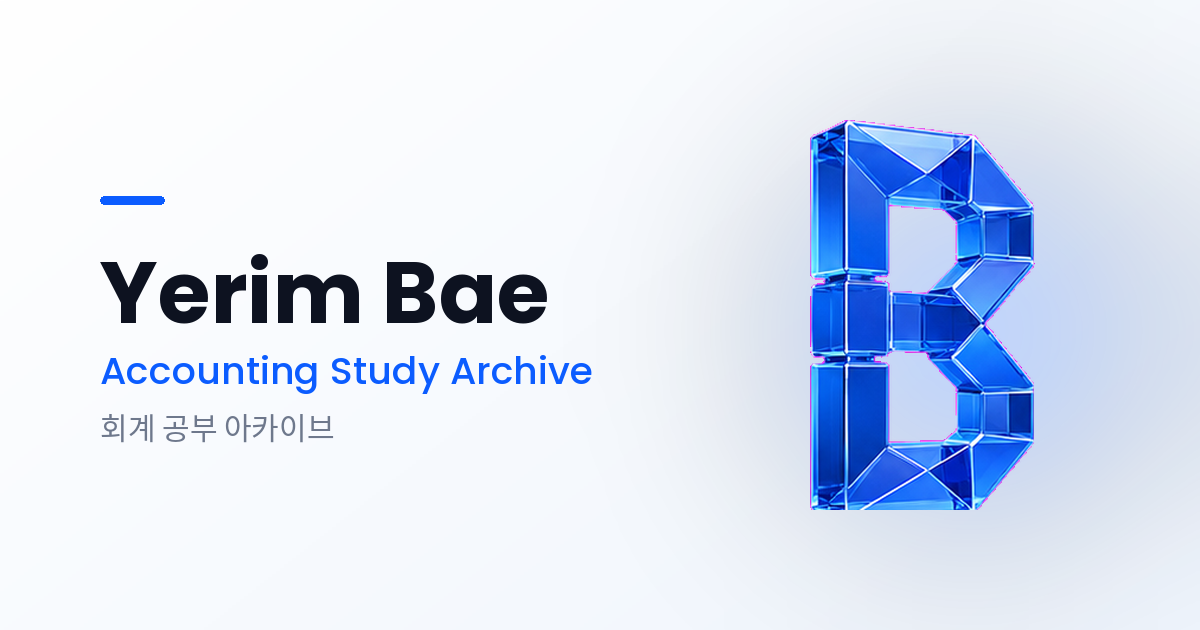
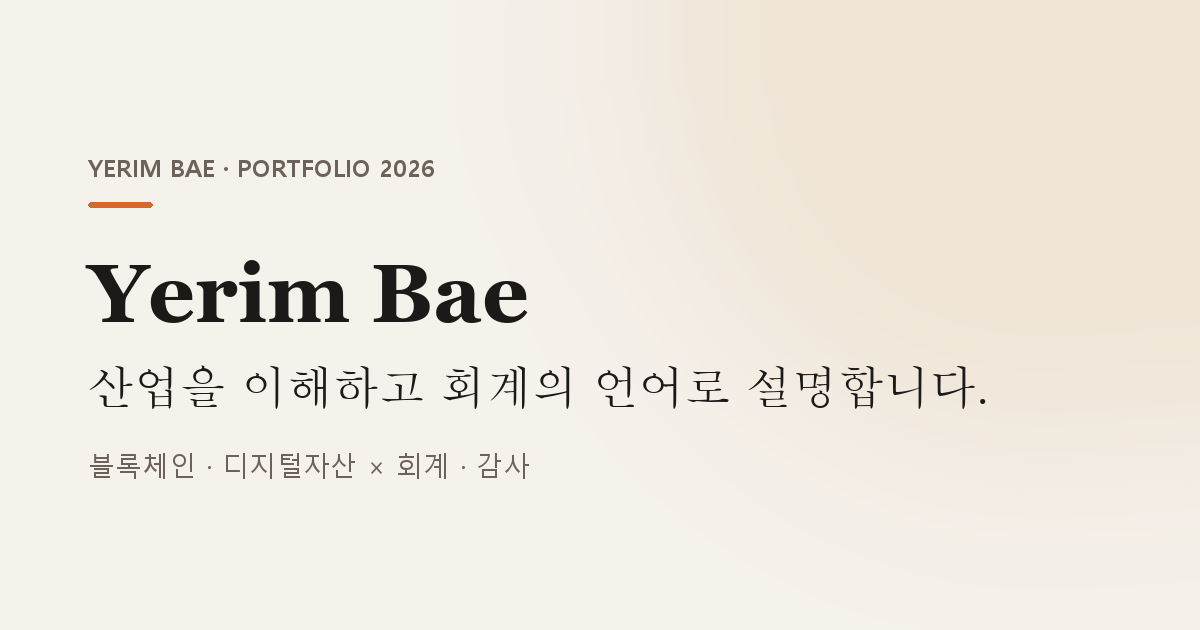
파란 크리스탈 B 전면 제거, 아이콘·링크 미리보기를 새 팔레트로 교체
아이보리·오렌지 팔레트와 정면으로 부딪히던 파란 B를 사이트에서 전부 걷어냈습니다.

- 아카이브 히어로의 크리스탈 이미지와 부유 큐브 폴백 제거 (CSS 24줄 -> 1줄).
  히어로가 글자만 남으면서 본문 폭을 600px -> 720px 로 넓혔습니다.
- 헤더 브랜드의 B 심볼과 SVG 폴백 제거. 글자 워드마크만 남겼습니다.
- 새 아이콘: 잉크색 라운드 사각형 + 아이보리 Y, 아랫줄기만 오렌지.
  assets/favicon.svg 를 새로 만들고, PNG/ICO 4종도 같은 도안으로 다시 생성했습니다.
  브라우저가 아이콘을 강하게 캐시하므로 쿼리를 ?v=5 -> ?v=6 으로 올렸습니다.
- og-image.png(카톡·SNS 미리보기)를 새로 만들었습니다. 파란 B와 옛 문구 대신
  아이보리 바탕에 "Yerim Bae / 산업을 이해하고 회계의 언어로 설명합니다."
- 더 이상 쓰지 않는 crystal.png, logo-mark.png, logo-full.png 삭제.
- README의 로고 교체 안내를 지금 구성에 맞게 다시 썼습니다.

diff --git a/archive.html b/archive.html
@@ -17,10 +17,11 @@
 <meta name="twitter:title" content="Yerim Bae · 회계 공부 아카이브" />
 <meta name="twitter:description" content="배예림이 정리한 회계 공부 기록과 인사이트 아카이브" />
 <meta name="twitter:image" content="https://yerim-accounting.vercel.app/assets/og-image.png?v=1" />
-<link rel="icon" href="favicon.ico?v=5" sizes="any" />
-<link rel="icon" type="image/png" sizes="32x32" href="assets/favicon-32.png?v=5" />
-<link rel="icon" type="image/png" sizes="512x512" href="assets/favicon-512.png?v=5" />
-<link rel="apple-touch-icon" sizes="180x180" href="assets/favicon-180.png?v=5" />
+<link rel="icon" type="image/svg+xml" href="assets/favicon.svg?v=6" />
+<link rel="icon" href="favicon.ico?v=6" sizes="any" />
+<link rel="icon" type="image/png" sizes="32x32" href="assets/favicon-32.png?v=6" />
+<link rel="icon" type="image/png" sizes="512x512" href="assets/favicon-512.png?v=6" />
+<link rel="apple-touch-icon" sizes="180x180" href="assets/favicon-180.png?v=6" />
 <link rel="preconnect" href="https://fonts.googleapis.com" />
 <link rel="preconnect" href="https://fonts.gstatic.com" crossorigin />
 <link href="https://fonts.googleapis.com/css2?family=Noto+Serif+KR:wght@400;500;600;700&display=swap" rel="stylesheet" />
@@ -51,10 +52,7 @@
   /* ---------- header ---------- */
   header{position:sticky;top:0;z-index:20;background:rgba(245,241,235,.78);backdrop-filter:blur(14px);-webkit-backdrop-filter:blur(14px);border-bottom:1px solid var(--border)}
   .nav{display:flex;align-items:center;gap:24px;height:66px}
-  .brand{display:flex;align-items:center;gap:11px;font-weight:800;letter-spacing:-.02em}
-  .brand .mark{width:34px;height:34px;flex:0 0 34px;display:grid;place-items:center}
-  .brand .mark svg{width:100%;height:100%;display:block}
-  .brand .mark img{width:100%;height:100%;object-fit:contain;display:block}
+  .brand{display:flex;align-items:center;font-weight:800;letter-spacing:-.02em}
   .brand .bt{display:block;line-height:1.15}
   .brand .bt b{font-size:15.5px;font-weight:800;color:var(--text)}
   .brand small{display:block;font-size:11px;font-weight:600;color:var(--faint);letter-spacing:.01em;margin-top:1px}
@@ -65,8 +63,6 @@
   /* 모바일: 헤더를 컴팩트하게 — 메뉴가 가로 한 줄 유지 (PC는 영향 없음) */
   @media(max-width:600px){
     .nav{gap:10px;height:58px}
-    .brand{gap:8px}
-    .brand .mark{width:28px;height:28px;flex:0 0 28px}
     .brand .bt b{font-size:14px;white-space:nowrap}
     .brand small{display:none}
     .nav .links{gap:2px}
@@ -76,7 +72,7 @@
 
   /* ---------- hero ---------- */
   .hero{position:relative;padding:56px 0 26px}
-  .hero .hcopy{position:relative;z-index:2;max-width:600px}
+  .hero .hcopy{position:relative;z-index:2;max-width:720px}
   .hero .eyebrow{display:inline-flex;align-items:center;gap:7px;font-size:12px;font-weight:800;letter-spacing:.02em;
     color:var(--accent);background:var(--accent-soft);padding:6px 12px;border-radius:999px;margin-bottom:16px}
   .hero .eyebrow .dot{width:7px;height:7px;border-radius:50%;background:var(--accent);box-shadow:0 0 0 0 rgba(216,102,47,.5);animation:pulse 2s infinite}
@@ -90,30 +86,7 @@
     border-radius:12px;padding:9px 14px;font-size:13px;color:var(--muted);box-shadow:var(--shadow)}
   .hero .meta .chip b{font-size:18px;font-weight:600;color:var(--text);letter-spacing:-.02em;font-family:var(--serif)}
 
-  /* ---------- hero crystal animation ---------- */
-  .hero-art{position:absolute;top:0;right:8px;width:340px;height:100%;z-index:1;pointer-events:none;display:grid;place-items:center}
-  .hero-art .glow{position:absolute;width:240px;height:240px;border-radius:50%;
-    background:radial-gradient(circle,rgba(46,166,255,.28) 0%,rgba(11,92,255,.10) 45%,rgba(11,92,255,0) 70%);
-    filter:blur(6px);animation:breathe 5s ease-in-out infinite}
-  @keyframes breathe{0%,100%{transform:scale(.92);opacity:.75}50%{transform:scale(1.08);opacity:1}}
-  .crystals{position:relative;width:220px;height:220px}
-  .cube{position:absolute;width:74px;height:74px;border-radius:12px;
-    background:linear-gradient(150deg,#5fbcff 0%,#1f74ff 45%,#0a3ecc 100%);
-    box-shadow:inset 0 2px 8px rgba(255,255,255,.55),inset 0 -10px 18px rgba(6,32,120,.55),0 14px 30px rgba(11,92,255,.35);
-    border:1px solid rgba(255,255,255,.35)}
-  .cube::before{content:"";position:absolute;inset:8px 8px auto 8px;height:26px;border-radius:8px;
-    background:linear-gradient(180deg,rgba(255,255,255,.6),rgba(255,255,255,0))}
-  .cube.c1{top:22px;left:26px;animation:float1 6s ease-in-out infinite}
-  .cube.c2{top:78px;left:104px;width:64px;height:64px;animation:float2 6.6s ease-in-out infinite}
-  .cube.c3{top:132px;left:34px;width:58px;height:58px;animation:float3 7.2s ease-in-out infinite}
-  @keyframes float1{0%,100%{transform:translateY(0) rotate(-3deg)}50%{transform:translateY(-14px) rotate(2deg)}}
-  @keyframes float2{0%,100%{transform:translateY(-6px) rotate(3deg)}50%{transform:translateY(10px) rotate(-2deg)}}
-  @keyframes float3{0%,100%{transform:translateY(4px) rotate(-2deg)}50%{transform:translateY(-12px) rotate(3deg)}}
-  /* 실제 크리스탈 이미지를 넣으면 아래로 자동 대체됩니다 */
-  .hero-art img.crystal-img{position:relative;width:auto;max-width:300px;max-height:210px;filter:drop-shadow(0 22px 38px rgba(11,92,255,.34));animation:floatImg 6.5s ease-in-out infinite}
-  @keyframes floatImg{0%,100%{transform:translateY(0) rotate(-1.5deg)}50%{transform:translateY(-16px) rotate(1.5deg)}}
-  @media(max-width:760px){.hero-art{display:none}.hero .hcopy{max-width:none}}
-  @media(prefers-reduced-motion:reduce){.cube,.crystals .cube,.glow,.crystal-img,.hero .eyebrow .dot{animation:none!important}}
+  @media(prefers-reduced-motion:reduce){.hero .eyebrow .dot{animation:none!important}}
 
   /* ---------- sections ---------- */
   .sec-head{display:flex;align-items:baseline;gap:12px;margin:40px 0 18px}
@@ -384,15 +357,6 @@
   <div class="wrap nav">
     <!-- 로고를 누르면 포트폴리오 첫 화면으로 돌아갑니다. 아카이브 홈은 아래 "홈" 링크입니다 -->
     <a href="index.html" class="brand">
-      <span class="mark" id="brandMark">
-        <!-- 워드마크에서 잘라낸 마크(assets/logo-mark.png)가 있으면 사용, 없으면 아래 SVG 폴백 -->
-        <img src="assets/logo-mark.png" alt="Yerim Bae" onerror="this.remove();var f=document.getElementById('brandFallback');if(f)f.style.display='block'" />
-        <svg id="brandFallback" style="display:none" viewBox="0 0 40 40" fill="none" xmlns="http://www.w3.org/2000/svg" aria-label="Yerim Bae">
-          <rect x="4" y="6" width="15" height="10" rx="2.5" fill="#1C1A19"/>
-          <rect x="4" y="19" width="10" height="15" rx="2.5" fill="#1C1A19"/>
-          <rect x="22" y="6" width="14" height="14" rx="3" fill="#1C1A19"/>
-        </svg>
-      </span>
       <span class="bt"><b>Yerim Bae</b><small>Accounting Study Archive · 회계 공부 아카이브</small></span>
     </a>
     <nav class="links">
@@ -544,11 +508,6 @@ ${tagsHtml(p.tags)}
 function heroHtml(){
   const banner = USING_SAMPLE ? `<div class="banner">⚙ 지금은 샘플 데이터로 보이는 중이에요. 노션 연결·배포가 끝나면 실제 데이터가 표시됩니다.</div>`:"";
   return `<section class="hero">
-    <div class="hero-art" aria-hidden="true">
-      <div class="glow"></div>
-      <img class="crystal-img" src="assets/crystal.png" alt="" onerror="this.remove();var c=document.getElementById('cssCrystals');if(c)c.style.display='block'" />
-      <div class="crystals" id="cssCrystals" style="display:none"><span class="cube c1"></span><span class="cube c2"></span><span class="cube c3"></span></div>
-    </div>
     <div class="hcopy">
       <h1><span class="hl">Accounting</span><br class="hbr"> Study Archive</h1>
       <div class="meta">

diff --git a/index.html b/index.html
@@ -14,9 +14,10 @@
 <meta name="twitter:card" content="summary_large_image" />
 <meta name="twitter:image" content="https://yerim-accounting.vercel.app/assets/og-image.png" />
 
-<link rel="icon" href="favicon.ico?v=5" sizes="any" />
-<link rel="icon" type="image/png" sizes="32x32" href="assets/favicon-32.png?v=5" />
-<link rel="apple-touch-icon" sizes="180x180" href="assets/favicon-180.png?v=5" />
+<link rel="icon" type="image/svg+xml" href="assets/favicon.svg?v=6" />
+<link rel="icon" href="favicon.ico?v=6" sizes="any" />
+<link rel="icon" type="image/png" sizes="32x32" href="assets/favicon-32.png?v=6" />
+<link rel="apple-touch-icon" sizes="180x180" href="assets/favicon-180.png?v=6" />
 
 <link rel="preconnect" href="https://fonts.googleapis.com" />
 <link rel="preconnect" href="https://fonts.gstatic.com" crossorigin />
